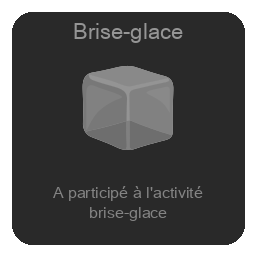
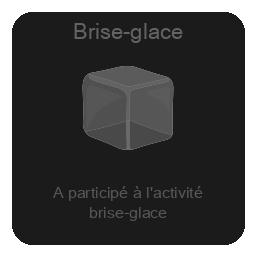
MàJ

diff --git a/generate_badges.py b/generate_badges.py
@@ -42,7 +42,7 @@ def make_grayscale(img):
     )
 
     enhancer = ImageEnhance.Brightness(rgba)
-    return enhancer.enhance(0.6)
+    return enhancer.enhance(0.4)
 
 # Use a real font that supports accents
 def load_font(size):
